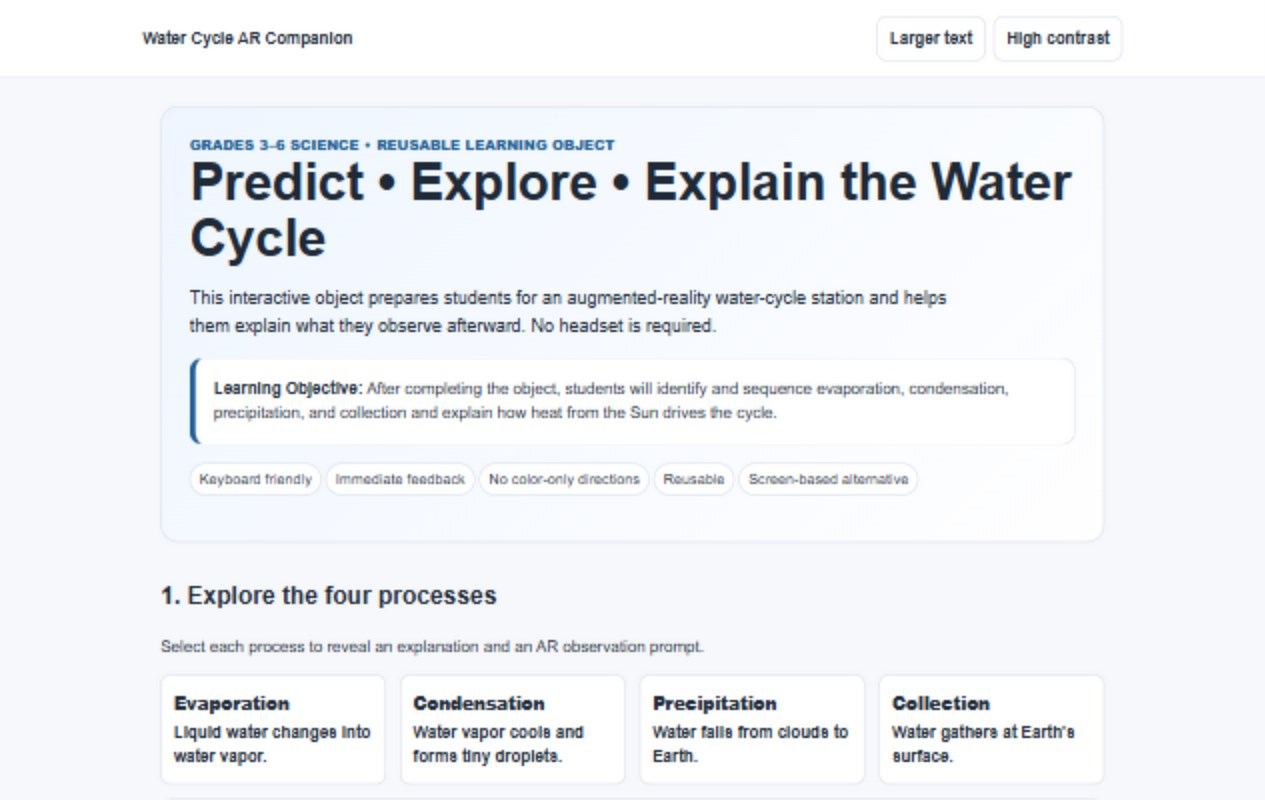
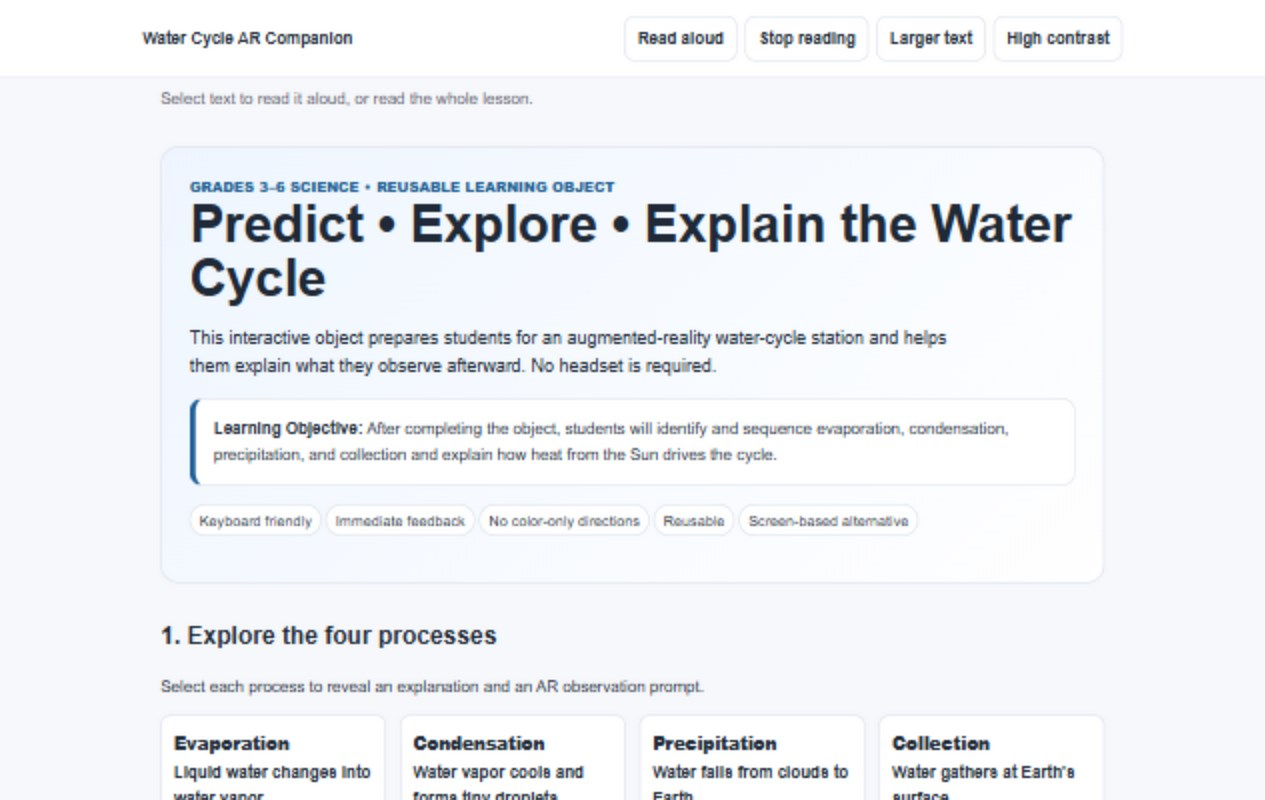
Add read-aloud to the water cycle learning object and post 6
Publishes the updated learning object, which adds Read aloud and Stop
reading controls (browser speech synthesis, for the whole lesson or
selected text). The post's accessibility paragraph now names the
feature, and the screenshots, thumbnail, Figure 1 caption and alt
text show the new controls.

Changed region(s): [[0.1233, 0.0938, 0.8632, 0.6562], [0.1233, 0.7188, 0.8632, 1.0], [0.4933, 0.0312, 0.6783, 0.0625]]

diff --git a/water-cycle-learning-object.html b/water-cycle-learning-object.html
@@ -46,12 +46,12 @@
           <p>For my sixth blog post, I created <strong>Predict, Explore, Explain the Water Cycle</strong>, an interactive learning object designed to accompany the augmented-reality science component of my <a href="rethinking-the-computer-lab.html">Flexible Digital Learning &amp; Innovation Lab proposal</a>. The object prepares students for a small-group AR water-cycle experience and gives them a structured way to explain what they observed afterward. The learning objective is for students to identify and sequence evaporation, condensation, precipitation, and collection and explain how heat from the Sun drives the water cycle.</p>
           <p id="structure">The object begins with concise explanations of the four processes. Students then make a prediction about what happens when sunlight warms surface water, place the stages of the cycle in sequence, complete an observation mission during the AR experience, answer a short knowledge check, and finish with an explanation prompt. This structure is intentional. Dumitrica and Jarmula (2022) found that digital learning objects can support comprehension, self-regulation, and scaffolded movement from simpler to more complex knowledge when they are thoughtfully integrated into instruction. Rather than treating AR as the lesson itself, the object places the immersive experience inside a larger cycle of prediction, observation, feedback, and explanation.</p>
           <p id="tool">I selected <strong>Lumi with H5P</strong> as the publishing tool because it is designed specifically for reusable interactive learning content. H5P supports question types, interactive modules, immediate feedback, and browser-based delivery, while Lumi allows content to be shared by link or exported as H5P, HTML, or SCORM (Lumi Education, n.d.). That flexibility matters because the same learning object could be linked from a class website, embedded in a learning management system, or reused in another course without rebuilding it from the beginning.</p>
-          <p id="accessibility">Accessibility was a design requirement rather than an addition at the end. Students can navigate the object with a keyboard, enlarge text, switch to a high-contrast view, and receive feedback in text rather than through color alone. The AR observation task also includes a screen-based alternative for students who cannot or prefer not to use an immersive device. Sozer et al. (2024) emphasize that effective e-learning objects should be useful, accessible, learnable, interactive, and designed around clear goals and feedback. Their work also reinforces that usability includes pedagogical and technical considerations, not simply attractive visual design.</p>
+          <p id="accessibility">Accessibility was a design requirement rather than an addition at the end. Students can navigate the object with a keyboard, have the whole lesson or any selected text read aloud, enlarge text, switch to a high-contrast view, and receive feedback in text rather than through color alone. The AR observation task also includes a screen-based alternative for students who cannot or prefer not to use an immersive device. Sozer et al. (2024) emphasize that effective e-learning objects should be useful, accessible, learnable, interactive, and designed around clear goals and feedback. Their work also reinforces that usability includes pedagogical and technical considerations, not simply attractive visual design.</p>
           <p id="reuse">The object is engaging because students are required to make decisions throughout the experience rather than only read information. Immediate feedback encourages revision, and the final explanation asks students to put the process into their own words. It is also reusable. A teacher could use it before an AR activity as preparation, after the activity as formative assessment, or independently with a diagram or browser-based simulation when AR technology is unavailable.</p>
 
           <figure id="screens">
-            <a href="images/water-cycle/opening-screen.jpg"><img class="screenshot" src="images/water-cycle/opening-screen.jpg" alt="Opening screen of the Water Cycle AR Companion: the title Predict, Explore, Explain the Water Cycle, the learning objective, feature labels such as Keyboard friendly and Screen-based alternative, Larger text and High contrast buttons, and the four process cards" width="1265" height="800" loading="lazy"></a>
-            <figcaption><strong>Figure 1.</strong> The opening screen and learning objective.</figcaption>
+            <a href="images/water-cycle/opening-screen.jpg"><img class="screenshot" src="images/water-cycle/opening-screen.jpg" alt="Opening screen of the Water Cycle AR Companion: the title Predict, Explore, Explain the Water Cycle, the learning objective, feature labels such as Keyboard friendly and Screen-based alternative, Read aloud, Stop reading, Larger text and High contrast buttons, and the four process cards" width="1265" height="800" loading="lazy"></a>
+            <figcaption><strong>Figure 1.</strong> The opening screen and learning objective, with the read-aloud, larger-text and high-contrast controls at the top.</figcaption>
           </figure>
           <figure>
             <a href="images/water-cycle/prediction-feedback.jpg"><img class="screenshot" src="images/water-cycle/prediction-feedback.jpg" alt="The prediction question with the answer Some liquid water changes into water vapor selected and the text feedback Correct. Sunlight provides heat energy, allowing liquid water to evaporate, followed by the Build the cycle sequence activity" width="1265" height="800" loading="lazy"></a>

diff --git a/learning-objects/water-cycle-ar-companion.html b/learning-objects/water-cycle-ar-companion.html
@@ -10,7 +10,7 @@ body.large{font-size:1.15rem}body.contrast{--bg:#000;--panel:#111;--text:#fff;--
 .skip{position:absolute;left:-9999px}.skip:focus{left:12px;top:12px;z-index:99;background:#fff;color:#000;padding:10px;border:3px solid #000}
 header{background:var(--panel);border-bottom:1px solid var(--line);padding:16px 20px;position:sticky;top:0;z-index:5}
 .bar{max-width:980px;margin:auto;display:flex;justify-content:space-between;gap:12px;align-items:center;flex-wrap:wrap}
-.controls{display:flex;gap:8px}button,select{font:inherit}button{cursor:pointer;border:1px solid var(--line);background:var(--panel);color:var(--text);padding:9px 12px;border-radius:10px;font-weight:700}
+.controls{display:flex;gap:8px;flex-wrap:wrap}button,select{font:inherit}button{cursor:pointer;border:1px solid var(--line);background:var(--panel);color:var(--text);padding:9px 12px;border-radius:10px;font-weight:700}
 button:hover{background:var(--soft)}button:focus-visible,select:focus-visible,input:focus-visible{outline:3px solid var(--focus);outline-offset:2px}
 main{max-width:980px;margin:auto;padding:28px 18px 60px}.hero{background:linear-gradient(135deg,var(--soft),var(--panel));border:1px solid var(--line);border-radius:18px;padding:28px}
 h1{margin:0 0 10px;font-size:clamp(2rem,5vw,3.2rem);line-height:1.08}h2{margin-top:34px}.eyebrow{font-weight:800;color:var(--accent);text-transform:uppercase;font-size:.83rem;letter-spacing:.04em}.lead{font-size:1.12rem;max-width:800px}
@@ -25,7 +25,8 @@ footer{margin-top:40px;padding-top:20px;border-top:1px solid var(--line);color:v
 </head>
 <body>
 <a class="skip" href="#main">Skip to main content</a>
-<header><div class="bar"><strong>Water Cycle AR Companion</strong><div class="controls"><button id="font">Larger text</button><button id="contrast">High contrast</button></div></div></header>
+<header><div class="bar"><strong>Water Cycle AR Companion</strong><div class="controls"><button id="readAloud" type="button">Read aloud</button><button id="stopReading" type="button" disabled>Stop reading</button><button id="font">Larger text</button><button id="contrast">High contrast</button></div></div></header>
+<p id="speechStatus" class="muted" role="status" style="max-width:980px;margin:8px auto;padding:0 18px">Select text to read it aloud, or read the whole lesson.</p>
 <main id="main">
 <section class="hero">
 <div class="eyebrow">Grades 3–6 Science • Reusable Learning Object</div>
@@ -81,6 +82,46 @@ footer{margin-top:40px;padding-top:20px;border-top:1px solid var(--line);color:v
 <footer><p><strong>Teacher note:</strong> Designed as a companion to a small-group AR science station such as the Merge EDU water-cycle experience proposed in the Flexible Digital Learning &amp; Innovation Lab.</p><p>Accessibility features: semantic headings, keyboard-operable controls, visible focus, adjustable text, high contrast, text feedback, and a non-AR alternative.</p></footer>
 </main>
 <script>
+const readAloud = document.getElementById("readAloud");
+const stopReading = document.getElementById("stopReading");
+const speechStatus = document.getElementById("speechStatus");
+if (!("speechSynthesis" in window) || !("SpeechSynthesisUtterance" in window)) {
+  readAloud.disabled = true;
+  speechStatus.textContent = "Read aloud is not available in this browser.";
+} else {
+  let currentSpeech = null;
+  readAloud.onclick = () => {
+    const selection = window.getSelection().toString().trim();
+    const text = selection || document.getElementById("main").innerText;
+    if (!text.trim()) return;
+    currentSpeech = null;
+    window.speechSynthesis.cancel();
+    const utterance = new SpeechSynthesisUtterance(text);
+    currentSpeech = utterance;
+    utterance.lang = document.documentElement.lang;
+    utterance.onend = () => {
+      if (currentSpeech !== utterance) return;
+      currentSpeech = null;
+      stopReading.disabled = true;
+      speechStatus.textContent = "Finished reading.";
+    };
+    utterance.onerror = () => {
+      if (currentSpeech !== utterance) return;
+      currentSpeech = null;
+      stopReading.disabled = true;
+      speechStatus.textContent = "Read aloud could not play. Please try again.";
+    };
+    stopReading.disabled = false;
+    speechStatus.textContent = selection ? "Reading selected text." : "Reading the lesson.";
+    window.speechSynthesis.speak(utterance);
+  };
+  stopReading.onclick = () => {
+    currentSpeech = null;
+    window.speechSynthesis.cancel();
+    stopReading.disabled = true;
+    speechStatus.textContent = "Reading stopped.";
+  };
+}
 const D={
 evap:["Evaporation","Heat energy causes some liquid water at Earth's surface to change into water vapor and move into the atmosphere.","AR observation: Find where energy is added. What evidence shows water leaving the surface?"],
 cond:["Condensation","As water vapor rises and cools, it changes into tiny liquid droplets. Many droplets together can form clouds.","AR observation: Locate the cooling stage. What changes in the water's state?"],
